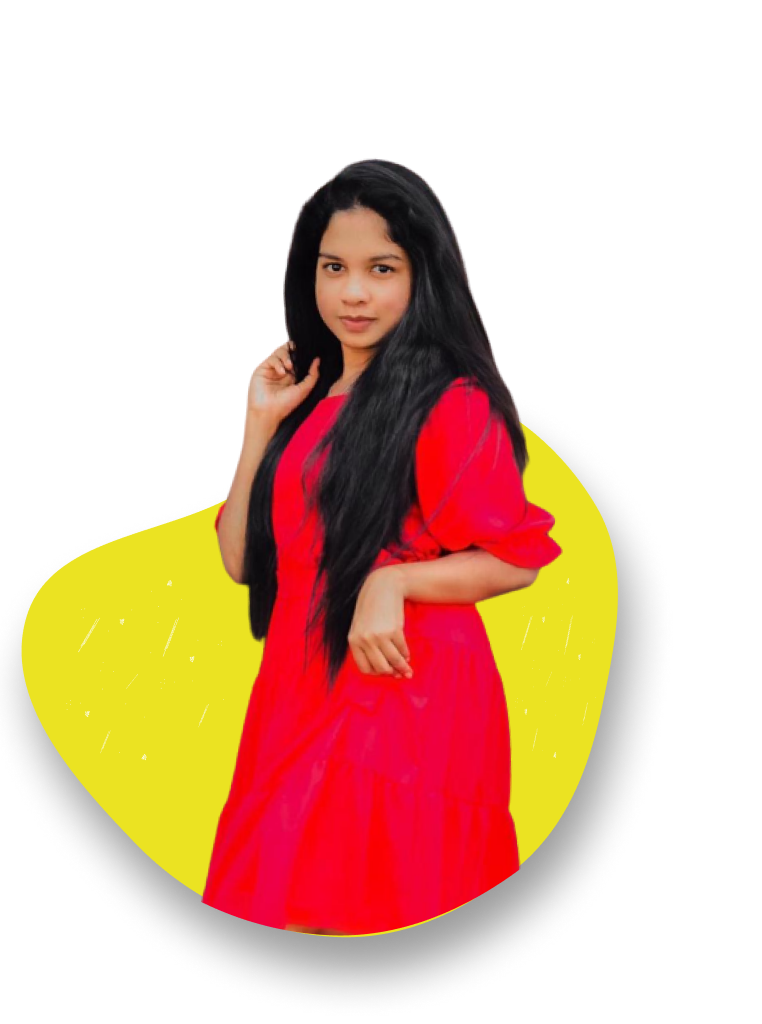
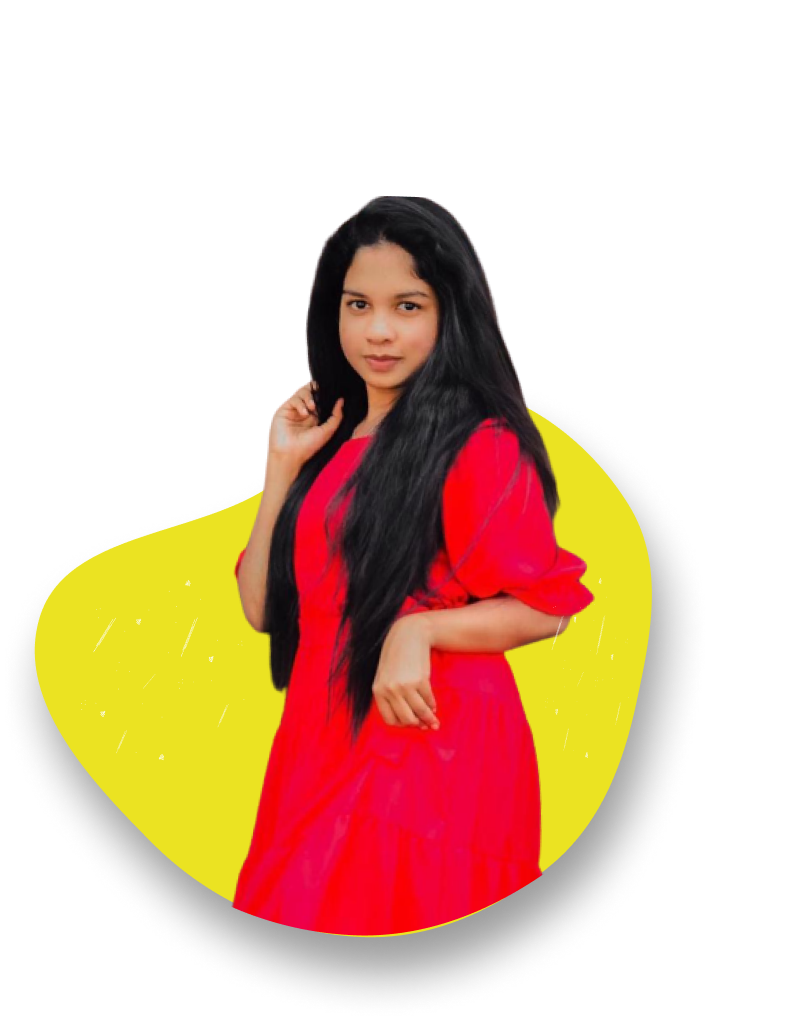
Added initial Project

diff --git a/index.html b/index.html
@@ -17,20 +17,22 @@
 <body>
 <br>
     <header>
-        <div>
-            <p><b>Sayani</b> Nethmi</p>
-        </div>
-
-        <nav>
-            <ul>
-                <li><a href="#home" >Home</a></li>
-                <li><a href="#about" >About</a></li>
-                <li><a href="#education">Education</a></li>
-                <li><a href="#skills">Skills</a></li>
-                <li><a href="#projects">Projects</a></li>
-                <li><a href="#contact">Contact</a></li>
-            </ul>
-        </nav>
+        <table width="100%" height="50px" border="0" align="right">
+            <tr>
+                <td width="10%">
+                    <h3 align="left"><b>Sayani Nethmi</b></h3>
+                </td>
+                <td></td>
+                <td></td>
+                <td width="10%" align="right"><nav>Home</nav></td>
+                <td width="10%" align="right"><nav><a href="#about">About</a></nav></td>
+                <td width="10%" align="right"><nav><a href="#education">Education</a></nav></td>
+                <td width="10%" align="right"><nav><a href="#skills">Skills</a></nav></td>
+                <td width="10%" align="right"><nav><a href="#projects">Projects</a></nav></td>
+                <td width="10%" align="right"><nav><a href="#contact">Contact</a></nav></td>
+            </tr>
+        </table>
+        <hr>
     </header>
     <main>
 
@@ -38,21 +40,26 @@
         <section class="home" id="home">
 
             <aside>
-                <h1>Hello There,</h1>
+                <img src="Assets/img/Home.png"  alt="image-01" width="600px" height="550px" align="right">
+                <br><br><br><br><br><br><br><br>
+                <font face="Josefin Sans" size="100"><b>Hello There,</b></font>
                 <h2 >I,m Sayani <font color ="yellow">Nethmi</font></h2>
-                <h3 >Full Stack Developer</h3>
+                <h3>Full Stack Developer</h3>
                 <button class="button1" ><b>Click</b></button>
 
             </aside>
             <section>
-                <img src="Assets/img/Home.png"  alt="image-01" width="500px" height="450px">
+                <br><br><br><br><br><br><br><br><br><br><br><br><br>
+                <address align="right">
+                    <img src="Assets/img/tel.png" alt="image-01" width="20px" height="20px" ><a href="tel:+94775408818">+94775408818</a>
+                    <img src="Assets/img/mail.png" alt="image-01" width="20px" height="20px" ><a href="mailto:nethmihewage@gmail.com">nethmihewage@gmail.com</a>
+                </address>
             </section>
         </section>
 
        <section class="about" id="about">
            <h1> About </h1>
            <div style="width:50px;height:6px;background-color:#EBE322;"></div>
-           <img src="Assets/img/About1.png" alt="image-02" width="500px" height="500px">
            <aside>
                <article >
                    <p >My name is Sayani Nethmi.
@@ -79,7 +86,7 @@
                             <div></div>
                         </section>
                     </div>
-                    <img src="Assets/img/Education.png" alt="image-02" width="600" height="600">
+                    <img src="Assets/img/Education.png" alt="image-02" align="center" width="600" height="600">
 
                 </section>
             </section>
@@ -159,8 +166,9 @@
 
         </section>
 
-        <section>
+        <section class="projects" id="projects">
             <h1>Projects</h1>
+            <div style="width:50px;height:6px;background-color:#EBE322;"></div>
             <section></section>
             <section>
                 <h5><u>Management  System for BlueOcean Hotel</u></h5>
@@ -190,13 +198,13 @@
                     </div>
 
                     <address>
-                        <a href="#:No 21/11,Pokunuwaththa,Dangedara,Galle">No 21/11,Pokunuwaththa,Dangedara,Galle.</a>
+                        <img src="Assets/img/location.png" alt="image-01" width="20px" height="20px"> <a href="#:No 21/11,Pokunuwaththa,Dangedara,Galle">No 21/11,Pokunuwaththa,Dangedara,Galle.</a>
                     </address>
                     <address>
-                        <a href="mailto:nethmihewage@gmail.com">nethmihewage@gmail.com</a>
+                        <img src="Assets/img/mail2.png" alt="image-01" width="20px" height="20px"> <a href="mailto:nethmihewage@gmail.com">nethmihewage@gmail.com</a>
                     </address>
                     <address>
-                        <a href="tel:+94775408818">+94775408818</a>
+                        <img src="Assets/img/tel2.png" alt="image-01" width="20px" height="20px"><a href="tel:+94775408818">+94775408818</a>
                     </address>
                 </section>
 
@@ -220,12 +228,18 @@
 </body>
 
 <footer>
-    <h3>Stay Connect with Me</h3>
+    <h3 align="center">Stay Connect with Me</h3>
     <div>
-        <i class="fa-brands fa-instagram"></i>
-        <i class="fa-brands fa-facebook-f"></i>
-        <i class="fa-brands fa-twitter"></i>
-        <i class="fa-brands fa-whatsapp"></i>
+        <section>
+            <table table border="0" align="center" >
+           <tr>
+               <td><a href="https://www.instagram.com/_smileyx___/" target="_blank"><img src="Assets/img/insta.png" alt="image-01" width="50" height="50"></a></td>
+               <td><a href="https://web.facebook.com/profile.php?id=100087954307713" target="_blank"><img src="Assets/img/Fb.png" alt="image-01" width="50" height="50"></a></td>
+               <td><a href="https://www.linkedin.com/in/nethmi-hewage-889740264/" target="_blank"> <img src="Assets/img/In.png" alt="image-01" width="50" height="50"></a></td>
+               <td><a href="https://github.com/nethuh" target="_blank"><img src="Assets/img/git.png" alt="image-01" width="50" height="50" ></a></td>
+           </tr>
+            </table>
+            </section>
     </div>
 </footer>
 
